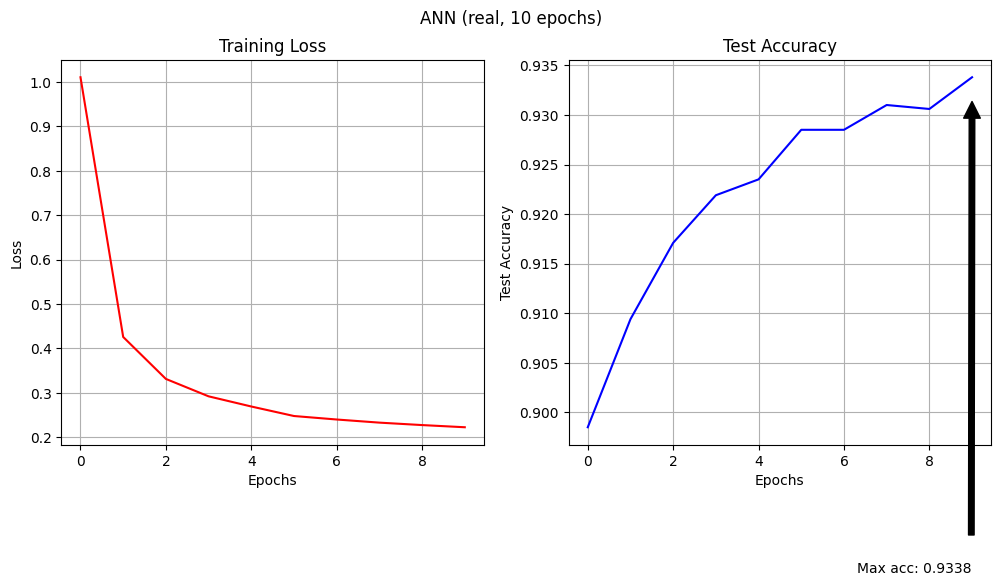
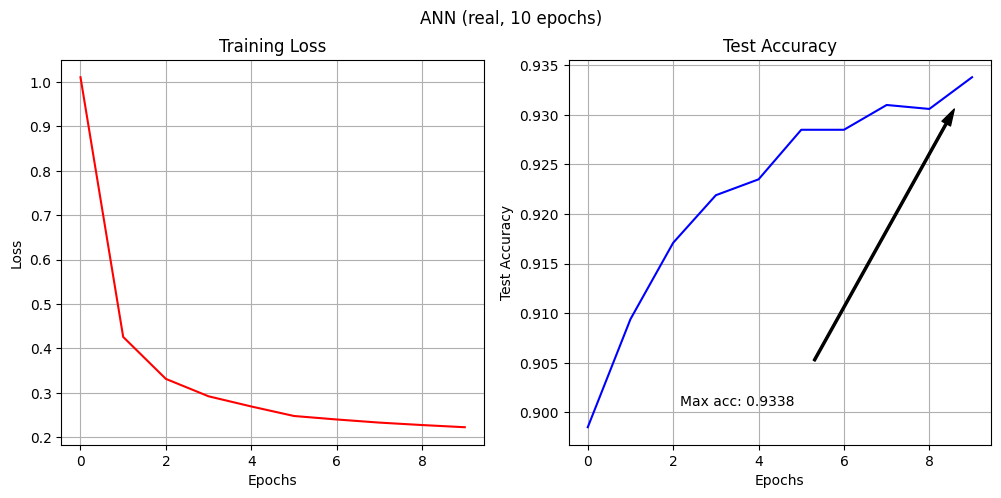
Fix max-acc annotation placement via axes-fraction coords; sync results

diff --git a/demo/index.html b/demo/index.html
@@ -160,9 +160,9 @@
       <tr><th style="width:20%">模型</th><th>类型</th><th>参数量</th><th>训练时长 (s)</th><th>最佳测试准确率</th><th>末轮准确率</th><th style="width:24%">说明</th></tr>
     </thead>
     <tbody>
-      <tr><td class="l">ANN</td><td>全连接 · 1 隐层(15) · Sigmoid</td><td>11,935</td><td>85.0</td><td>0.9338</td><td>0.9338</td><td class="l">最简基线，容量极小；第 10 轮仍在缓慢提升（即 best=final）</td></tr>
-      <tr class="best"><td class="l">CNN</td><td>2×(Conv-BN-ReLU-Pool) + FC</td><td>421,834</td><td>92.3</td><td><b>0.9931</b> ★</td><td>0.9923</td><td class="l">全场最佳（ep6 达峰）；卷积偏置在 28×28 小图上收益巨大</td></tr>
-      <tr><td class="l">ViT</td><td>16 patch · dim128 · 6 层 4 头</td><td>1,199,882</td><td>238.6</td><td>0.9732</td><td>0.9696</td><td class="l">参数最多但落后 CNN 约 2pp；ep9 仍在爬升，欠训练</td></tr>
+      <tr><td class="l">ANN</td><td>全连接 · 1 隐层(15) · Sigmoid</td><td>11,935</td><td>81.4</td><td>0.9338</td><td>0.9338</td><td class="l">最简基线，容量极小；第 10 轮仍在缓慢提升（即 best=final）</td></tr>
+      <tr class="best"><td class="l">CNN</td><td>2×(Conv-BN-ReLU-Pool) + FC</td><td>421,834</td><td>96.8</td><td><b>0.9939</b> ★</td><td>0.9923</td><td class="l">全场最佳（ep6 达峰）；卷积偏置在 28×28 小图上收益巨大</td></tr>
+      <tr><td class="l">ViT</td><td>16 patch · dim128 · 6 层 4 头</td><td>1,199,882</td><td>217.9</td><td>0.9736</td><td>0.9696</td><td class="l">参数最多但落后 CNN 约 2pp；ep9 仍在爬升，欠训练</td></tr>
       <tr><td class="l">SVM</td><td>RBF 核 · gamma=scale</td><td>—</td><td>198.4</td><td>0.9792</td><td>—</td><td class="l">传统组最佳，反超 ViT 与 ANN，仅落后 CNN 1.4pp</td></tr>
       <tr><td class="l">KNN</td><td>k=5 · 欧氏距离</td><td>—</td><td>9.3</td><td>0.9688</td><td>—</td><td class="l">无显式训练，预测慢</td></tr>
       <tr><td class="l">RandomForest</td><td>100 棵树 · seed 42</td><td>—</td><td>25.4</td><td>0.9705</td><td>—</td><td class="l">对输入缩放不敏感</td></tr>
@@ -180,7 +180,7 @@
     <tbody>
       <tr>
         <td>default/ddpm_ckpt.pth</td><td>1000</td><td>2000</td>
-        <td>CNN（真实数据组最优，0.9931）</td><td>0.9</td><td><b>1883 / 2000（94.2%）</b></td>
+        <td>CNN（真实数据组最优，0.9939）</td><td>0.9</td><td><b>1883 / 2000（94.2%）</b></td>
       </tr>
     </tbody>
   </table>
@@ -192,12 +192,12 @@
     </thead>
     <tbody>
       <tr><td class="l">ANN</td><td>1,883</td><td>0.6658</td><td>−26.8pp</td><td class="l">掉点最狠——瓶颈是数据规模/多样性而非模型容量</td></tr>
-      <tr class="best"><td class="l">CNN</td><td>1,883</td><td><b>0.9601</b> ★</td><td>−3.3pp</td><td class="l">仅用真实数据 1/32 的合成样本即达 96%，生成数据判别信息密度高</td></tr>
-      <tr><td class="l">ViT</td><td>1,883</td><td>0.8052</td><td>−16.8pp</td><td class="l">对数据质量/规模最敏感，与①中"欠训练"结论互相印证</td></tr>
+      <tr class="best"><td class="l">CNN</td><td>1,883</td><td><b>0.9603</b> ★</td><td>−3.4pp</td><td class="l">仅用真实数据 1/32 的合成样本即达 96%，生成数据判别信息密度高</td></tr>
+      <tr><td class="l">ViT</td><td>1,883</td><td>0.8047</td><td>−16.9pp</td><td class="l">对数据质量/规模最敏感，与①中"欠训练"结论互相印证</td></tr>
     </tbody>
   </table>
   <div class="note">
-    ① 伪标签来自 CNN（真实数据 0.9931），标签噪声与数据规模共同压低上限；② 阈值 0.9 下保留率 94.2%，说明绝大多数生成样本对强分类器而言"高置信可判别"，DDPM 生成质量整体可用；
+    ① 伪标签来自 CNN（真实数据 0.9939），标签噪声与数据规模共同压低上限；② 阈值 0.9 下保留率 94.2%，说明绝大多数生成样本对强分类器而言"高置信可判别"，DDPM 生成质量整体可用；
     ③ 想加大规模可用 <code>--num-synthetic 60000</code> 重跑（预期 gap 收窄）。
   </div>
 
@@ -221,9 +221,9 @@
   </div>
 
   <div class="cards" style="margin-top:14px">
-    <div class="card"><h3>① 深度模型架构对比 ✔</h3><p><b>CNN 0.9931 ≫ ViT 0.9732 &gt; ANN 0.9338。</b>卷积归纳偏置在 28×28 小图 + 10 epochs 短训练下收益压倒性；ViT 参数最多（120 万）却落后 CNN 约 2pp 且 ep9 仍在爬升（欠训练特征，文献预期成立：ViT 需大数据/强增广）；ANN 受限于 1.2 万参数 + Sigmoid，~93% 见顶。</p></div>
-    <div class="card"><h3>② 深度 vs 传统机器学习 ✔</h3><p><b>SVM-RBF 0.9792 是被低估的强基线</b>：反超 ViT（0.9732）与 ANN，距 CNN 仅 1.4pp；RF 0.9705、KNN 0.9688 同样压过 ViT/ANN。"深度全面占优"在 MNIST 上不成立——只有 CNN 占优，且 SVM 训练 198s（CPU 单机）vs CNN 92s（GPU），性价比看 CNN 赢、看门槛 SVM 更平易。LR 因 100 迭代未收敛，0.9225 只能当下限。</p></div>
-    <div class="card"><h3>③ DDPM 生成数据质量（下游视角）✔</h3><p><b>保留率 94.2% + CNN 仅掉 3.3pp（0.9931 → 0.9601）</b>：只用 1,883 张合成图（真实数据量 1/32）就在真实测试集达 96%——生成样本的判别信息密度高，DDPM 生成质量整体可用。gap 排序 CNN(−3.3pp) &lt; ViT(−16.8pp) &lt; ANN(−26.8pp)：掉点主因是<b>数据规模/多样性而非模型容量</b>（容量最小的 ANN 掉最狠、对数据最敏感的 ViT 居中）；另注意上限同时受伪标签教师（CNN 自身 0.9931）限制。</p></div>
+    <div class="card"><h3>① 深度模型架构对比 ✔</h3><p><b>CNN 0.9939 ≫ ViT 0.9736 &gt; ANN 0.9338。</b>卷积归纳偏置在 28×28 小图 + 10 epochs 短训练下收益压倒性；ViT 参数最多（120 万）却落后 CNN 约 2pp 且 ep9 仍在爬升（欠训练特征，文献预期成立：ViT 需大数据/强增广）；ANN 受限于 1.2 万参数 + Sigmoid，~93% 见顶。</p></div>
+    <div class="card"><h3>② 深度 vs 传统机器学习 ✔</h3><p><b>SVM-RBF 0.9792 是被低估的强基线</b>：反超 ViT（0.9736）与 ANN，距 CNN 仅 1.4pp；RF 0.9705、KNN 0.9688 同样压过 ViT/ANN。"深度全面占优"在 MNIST 上不成立——只有 CNN 占优，且 SVM 训练 198s（CPU 单机）vs CNN 92s（GPU），性价比看 CNN 赢、看门槛 SVM 更平易。LR 因 100 迭代未收敛，0.9225 只能当下限。</p></div>
+    <div class="card"><h3>③ DDPM 生成数据质量（下游视角）✔</h3><p><b>保留率 94.2% + CNN 仅掉 3.4pp（0.9939 → 0.9603）</b>：只用 1,883 张合成图（真实数据量 1/32）就在真实测试集达 96%——生成样本的判别信息密度高，DDPM 生成质量整体可用。gap 排序 CNN(−3.4pp) &lt; ViT(−16.9pp) &lt; ANN(−26.8pp)：掉点主因是<b>数据规模/多样性而非模型容量</b>（容量最小的 ANN 掉最狠、对数据最敏感的 ViT 居中）；另注意上限同时受伪标签教师（CNN 自身 0.9939）限制。</p></div>
   </div>
 
   <!-- ================= 6. 复现 ================= -->

diff --git a/compare/train_utils.py b/compare/train_utils.py
@@ -72,9 +72,10 @@ def plot_curves(history, title, out_path):
     plt.title('Test Accuracy')
     plt.annotate(f'Max acc: {acc_max:.4f}',
                  xy=(acc_max_epoch, acc_max),
-                 xytext=(acc_max_epoch * 0.7, max(acc_max - 0.05, 0)),
-                 arrowprops=dict(facecolor='black', shrink=0.05),
-                 fontsize=10)
+                 xytext=(0.40, 0.10), textcoords='axes fraction',
+                 ha='center', fontsize=10,
+                 arrowprops=dict(facecolor='black', shrink=0.10,
+                                 width=1.5, headwidth=7))
     plt.suptitle(title)
     os.makedirs(os.path.dirname(out_path), exist_ok=True)
     plt.savefig(out_path, bbox_inches='tight')

diff --git a/compare_results/summary.md b/compare_results/summary.md
@@ -13,18 +13,14 @@
 
 | Model | Train size | Params | Time (s) | Best Acc | Final Acc |
 |---|---|---|---|---|---|
-| ANN | 60000 | 11,935 | 85.0 | 0.9338 | 0.9338 |
-| CNN | 60000 | 421,834 | 92.3 | 0.9931 | 0.9923 |
-| ViT | 60000 | 1,199,882 | 238.6 | 0.9732 | 0.9696 |
-| SVM | 60000 | - | 198.4 | 0.9792 | 0.9792 |
-| KNN | 60000 | - | 9.3 | 0.9688 | 0.9688 |
-| RandomForest | 60000 | - | 25.4 | 0.9705 | 0.9705 |
-| LogisticRegression | 60000 | - | 10.5 | 0.9225 | 0.9225 |
+| ANN | 60000 | 11,935 | 81.4 | 0.9338 | 0.9338 |
+| CNN | 60000 | 421,834 | 96.8 | 0.9939 | 0.9935 |
+| ViT | 60000 | 1,199,882 | 217.9 | 0.9736 | 0.9736 |
 
 ## Trained on: ddpm_synthetic
 
 | Model | Train size | Params | Time (s) | Best Acc | Final Acc |
 |---|---|---|---|---|---|
-| ANN | 1883 | 11,935 | 12.3 | 0.6658 | 0.6658 |
-| CNN | 1883 | 421,834 | 13.8 | 0.9601 | 0.9601 |
-| ViT | 1883 | 1,199,882 | 20.4 | 0.8052 | 0.7972 |
+| ANN | 1883 | 11,935 | 10.8 | 0.6658 | 0.6658 |
+| CNN | 1883 | 421,834 | 12.1 | 0.9603 | 0.9603 |
+| ViT | 1883 | 1,199,882 | 19.5 | 0.8047 | 0.8038 |

diff --git a/README.md b/README.md
@@ -22,20 +22,20 @@
 
 | 模型 | 参数量 | 训练时长 (s) | 最佳测试准确率 |
 |---|---|---|---|
-| **CNN** ★ | 421,834 | 92.3 | **0.9931** |
+| **CNN** ★ | 421,834 | 96.8 | **0.9939** |
 | SVM (RBF) | — | 198.4 | 0.9792 |
-| ViT (16 patch · dim128 · 6 层) | 1,199,882 | 238.6 | 0.9732 |
+| ViT (16 patch · dim128 · 6 层) | 1,199,882 | 217.9 | 0.9736 |
 | RandomForest (100 树) | — | 25.4 | 0.9705 |
 | KNN (k=5) | — | 9.3 | 0.9688 |
-| ANN (784-15-10 · Sigmoid) | 11,935 | 85.0 | 0.9338 |
+| ANN (784-15-10 · Sigmoid) | 11,935 | 81.4 | 0.9338 |
 | LogisticRegression | — | 10.5 | 0.9225* |
 
 ### DDPM 合成数据训练（1,883 张 · 伪标签来自 CNN）
 
 | 模型 | 最佳测试准确率 | vs 真实数据训练 |
 |---|---|---|
-| **CNN** ★ | **0.9601** | −3.3pp |
-| ViT | 0.8052 | −16.8pp |
+| **CNN** ★ | **0.9603** | −3.4pp |
+| ViT | 0.8047 | −16.9pp |
 | ANN | 0.6658 | −26.8pp |
 
 \* LR 100 迭代未收敛（ConvergenceWarning），数值为下限。
